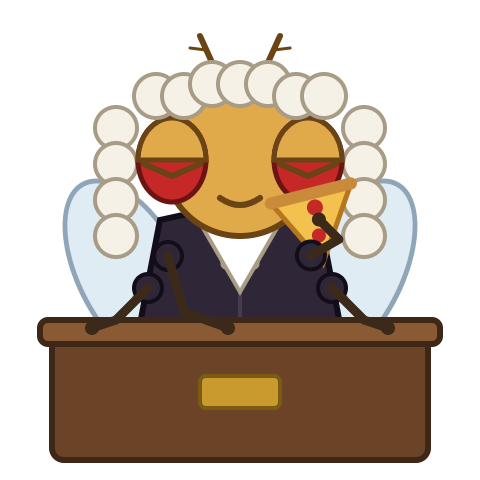
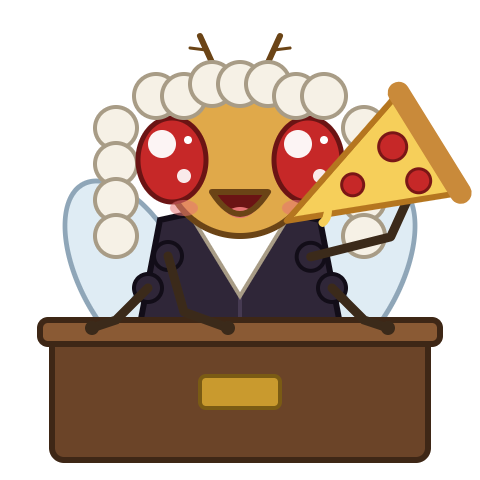
Review fixes: /how sections rendered as "[object ...]" (el() now flattens nested children), error preview card says the judge fainted, eating pose with a big pizza slice and happy eyes, story rail is a bar only
- dom.js: children.flat(Infinity); the /how test now checks each section's title and text
  are visible, and Page.fits() (used by the page tests) and the screenshot script fail on
  any "[object " in the page.
- The failed-hearing text moved to verdicts.FAILED (one copy for the API and the preview).
- Rail: labels dropped (the stage title already names each stage); T.rail removed.

diff --git a/web/css/components.css b/web/css/components.css
@@ -20,17 +20,15 @@
 .waiting .argument { margin-top: 14px; }
 .countdown { display: flex; align-items: center; justify-content: center; gap: 6px; margin: 0; color: var(--muted); }
 
-/* The story's progress rail: queued, the judge enters, tasting A, tasting B, deliberating. */
+/* The story's progress rail, a bar only (the stage title names each stage): queued, the
+   judge enters, tasting A, tasting B, deliberating. */
 .rail { display: flex; gap: 6px; margin: 16px 0 4px; padding: 0; list-style: none; }
-.rail li { flex: 1; min-width: 0; font-size: var(--fs-xs); color: var(--muted); }
-.rail li::before {
-  content: ""; display: block; height: 5px; margin-bottom: 4px; background: var(--line); border-radius: 999px;
+.rail li {
+  flex: 1; height: 6px; background: var(--line); border-radius: 999px;
   transition: background-color var(--t) var(--ease);
 }
-.rail li span { display: block; overflow: hidden; white-space: nowrap; text-overflow: ellipsis; }
-.rail li.done::before { background: var(--accent); }
-.rail li.now { font-weight: 700; color: var(--ink); }
-.rail li.now::before { background: var(--accent); animation: glow 1.2s ease-in-out infinite; }
+.rail li.done { background: var(--accent); }
+.rail li.now { background: var(--accent); animation: glow 1.2s ease-in-out infinite; }
 @keyframes glow { 50% { opacity: 0.35; } }
 
 .verdict .topic { margin: 4px 0 0; text-align: center; font-weight: 500; color: var(--muted); }

diff --git a/web/js/waiting.js b/web/js/waiting.js
@@ -20,9 +20,8 @@ export function storyScreen(root, view, n, onDone, loadBrain) {
   const line = el("p", { class: "stage-line" });
   const meters = el("div", { class: "live-meters" });
   const judge = flyImg("seated");
-  const rail = el("ol", { class: "rail", "aria-hidden": "true" },
-    T.rail(v.name_a, v.no_show ? T.water : v.name_b).map((t) => el("li", {}, el("span", {}, t))));
   const RAIL = ["queued", "mood", "tasteA", "tasteB", "deliberate", "reveal"];
+  const rail = el("ol", { class: "rail", "aria-hidden": "true" }, RAIL.slice(0, -1).map(() => el("li")));
   const mark = (key) => [...rail.children].forEach((li, i) => {
     const at = RAIL.indexOf(key);
     li.className = i < at ? "done" : i === at ? "now" : "";

diff --git a/web/js/dom.js b/web/js/dom.js
@@ -8,7 +8,7 @@ function make(node, props, children) {
     else if (v === true) node.setAttribute(k, "");
     else if (v !== false && v !== null && v !== undefined) node.setAttribute(k, v);
   }
-  for (const c of children.flat()) {
+  for (const c of children.flat(Infinity)) {
     if (c !== null && c !== undefined && c !== false) {
       node.append(typeof c === "string" || typeof c === "number" ? String(c) : c);
     }

diff --git a/web/js/copy.js b/web/js/copy.js
@@ -68,7 +68,6 @@ export const T = {
   how: "איך זה עובד?",
   nightMode: "מצב לילה",
   loading: "פותחים את התיק…",
-  rail: (a, b) => ["בתור", "כניסה", a, b, "הכרעה"],
   appealFiled: "הערעור הוגש. השופט חוזר לאולם",
   openingWhatsApp: "פותחים את וואטסאפ…",
   reconnected: "החיבור חזר",

diff --git a/scripts/make_fly.py b/scripts/make_fly.py
@@ -45,6 +45,10 @@ def eye(cx, kind):
     if kind == "closed":
         return base + (f'<path d="M{cx - 17} 80 A17 21 0 0 1 {cx + 17} 80 Z" fill="{AMBER}" stroke="{AMBER_D}" '
                        f'stroke-width="2.5"/>' + line([(cx - 14, 82), (cx, 88), (cx + 14, 82)], AMBER_D, 3))
+    if kind == "happy":  # wide and sparkling: a big shine and a second glint
+        return base + (f'<circle cx="{cx - 5}" cy="72" r="7" fill="#fff" fill-opacity=".95"/>'
+                       f'<circle cx="{cx + 6}" cy="88" r="3.5" fill="#fff" fill-opacity=".9"/>'
+                       f'<circle cx="{cx + 8}" cy="70" r="2" fill="#fff"/>')
     if kind == "x":
         return base + line([(cx - 8, 72), (cx + 8, 88)], "#fff", 3.5) + line([(cx + 8, 72), (cx - 8, 88)], "#fff", 3.5)
     shine = f'<circle cx="{cx - 6}" cy="71" r="4.5" fill="#fff" fill-opacity=".85"/>'
@@ -55,7 +59,7 @@ def eye(cx, kind):
 
 MOUTHS = {"smile": "M110 99 Q120 106 130 99", "flat": "M111 101 L129 101",
           "o": "M116 101 a4 4 0 1 0 8 0 a4 4 0 1 0 -8 0", "wavy": "M108 101 l4 -3 l4 3 l4 -3 l4 3 l4 -3 l4 3",
-          "frown": "M110 104 Q120 97 130 104"}
+          "frown": "M110 104 Q120 97 130 104", "open": "M106 96 Q120 118 134 96 Z"}
 
 
 def head(eyes="open", mouth="smile", extra=""):
@@ -140,15 +144,22 @@ def frozen():
 
 
 def eating():
-    napkin = '<path d="M98 108 L142 108 L120 146 Z" fill="#fff" stroke="#a89c86" stroke-width="2"/>'
-    pizza = ('<path d="M136 102 L176 92 L162 132 Z" fill="#f2c14e" stroke="#b5761f" stroke-width="2.5"/>'
-             '<path d="M136 102 L176 92" stroke="#c98a3a" stroke-width="6" stroke-linecap="round"/>'
-             '<circle cx="158" cy="104" r="4" fill="#c62828"/><circle cx="160" cy="118" r="3.5" fill="#c62828"/>')
-    return (wings() + robe() + napkin + head("closed", "smile") + bench() + "".join(REST)
+    """Lunch break: a big slice held up to an open grin, happy eyes. Reads apart from
+    deliberating (flat mouth, rubbing legs) even at header size."""
+    grin = (f'<path d="{MOUTHS["open"]}" fill="#6b1414"/>'
+            '<path d="M113 106 Q120 101 127 106 Q120 112 113 106 Z" fill="#e57373"/>')
+    blush = "".join(f'<ellipse cx="{x}" cy="104" rx="7" ry="4" fill="#e57373" fill-opacity=".55"/>' for x in (92, 148))
+    pizza = ('<path d="M144 110 L200 46 L231 96 Z" fill="#f6cf5a" stroke="#b5761f" stroke-width="3" stroke-linejoin="round"/>'
+             '<path d="M200 46 L231 96" stroke="#c98a3a" stroke-width="11" stroke-linecap="round"/>'
+             + "".join(f'<circle cx="{x}" cy="{y}" r="{r}" fill="#c62828" stroke="#7a1616" stroke-width="1.5"/>'
+                       for x, y, r in ((197, 73, 7), (210, 90, 6), (177, 92, 5.5)))
+             + '<path d="M164 99 q2 9 -2 12" stroke="#f6cf5a" stroke-width="4" stroke-linecap="round" fill="none"/>')
+    napkin = '<path d="M98 112 L142 112 L120 148 Z" fill="#fff" stroke="#a89c86" stroke-width="2"/>'
+    return (wings() + robe() + napkin + head("happy", "open", blush + grin) + bench() + "".join(REST)
             + leg([(84, 128), (92, 156), (114, 164)])
-            + f'<g id="z">{pizza}{leg([(156, 128), (170, 120), (160, 110)])}</g>'), \
+            + f'<g id="z">{leg([(156, 128), (196, 118), (206, 96)])}{pizza}</g>'), \
         "#z{animation:chew 1.2s ease-in-out infinite}@keyframes chew{0%,100%{transform:translate(0,0)}" \
-        "50%{transform:translate(-4px,-2px)}}", ""
+        "50%{transform:translate(-5px,3px)}}", ""
 
 
 def fainted():

diff --git a/api/tests/test_case_api.py b/api/tests/test_case_api.py
@@ -6,7 +6,7 @@ import pytest
 from fastapi.testclient import TestClient
 
 from apikit import as_b, decided, device, open_case, settled
-from borer_api import court, views
+from borer_api import court, verdicts, views
 from borer_api.app import create_app
 from borer_sim import mood
 from fake import OK, TEXT_B, FakeSim, wait_for
@@ -159,10 +159,10 @@ def test_failed_run_retried_twice_from_the_same_seed(tmp_path, fails, status):
         a = wait_for(c, f"/api/a/{case['a']}", lambda v: v["status"] == status)
         assert len(sim.calls) == court.ATTEMPTS and len(set(sim.calls)) == 1
         if status == "error":
-            assert a["hearings"][0]["status"] == "failed" and a["error_message"] == views.FAILED
+            assert a["hearings"][0]["status"] == "failed" and a["error_message"] == verdicts.FAILED
             assert not a["can_appeal"] and not a["no_show"]
             pub = c.get(f"/api/c/{case['case_id']}").json()
-            assert (pub["status"], pub["error_message"]) == ("error", views.FAILED)
+            assert (pub["status"], pub["error_message"]) == ("error", verdicts.FAILED)
         else:
             assert a["error_message"] is None
 

diff --git a/api/src/borer_api/og.py b/api/src/borer_api/og.py
@@ -37,13 +37,14 @@ def teaser(case: dict) -> dict:
 
 def card(case: dict, hearings: list[dict]) -> dict:
     final = verdicts.final(case, hearings)
-    head = verdicts.headline(case, final) if final else NOT_DECIDED
+    failed = case["status"] == "error"
+    head = verdicts.FAILED if failed else verdicts.headline(case, final) if final else NOT_DECIDED
     topic = f"התיק: {case['topic']}" if case["topic"] else None
     names = f"{case['name_a']} נגד {case['name_b']}"
     history = verdicts.history_line(hearings) if final else None
     lines = [("topic", topic), ("names", names), ("headline", head),
              ("history", history and history.replace("←", "·"))]  # Heebo has no arrows
-    pose = "fainted" if case["status"] == "error" else POSE[final["outcome"]] if final else "seated"
+    pose = "fainted" if failed else POSE[final["outcome"]] if final else "seated"
     return {"title": head, "text": " · ".join(t for t in (topic, names, history) if t), "pose": pose,
             "image": f"/og/c/{case['id']}.png?v={len(hearings)}{case['status']}",
             "lines": [(role, text) for role, text in lines if text]}

diff --git a/api/src/borer_api/views.py b/api/src/borer_api/views.py
@@ -15,7 +15,6 @@ NOT_DECIDED = "הזבוב עוד לא פסק בתיק הזה"
 APPEALED = "כבר ערערת בתיק הזה"
 FINAL = "הפסק סופי. אין עוד ערעורים בתיק הזה"
 APPEAL_LATE = "עברו 3 שעות מפסק הדין. הפסק סופי"
-FAILED = "השופט התעלף באמצע הדיון. אפשר לפתוח תיק חדש"
 
 NUDGE_AFTER_S = 3600          # A's "nudge again" button (SPEC §3.2)
 APPEAL_WINDOW_S = 3 * 3600    # appeals within 3 h of the latest verdict (§15.4)
@@ -71,7 +70,7 @@ def hearing_list(case: dict, hearings: list[dict], public: bool = False) -> list
 def _common(case: dict, hearings: list[dict], public: bool) -> dict:
     return {k: case[k] for k in ("id", "status", "topic", "name_a", "name_b")} | {
         "no_show": case["status"] not in ("waiting", "error") and case["text_b"] is None,
-        "error_message": FAILED if case["status"] == "error" else None,
+        "error_message": verdicts.FAILED if case["status"] == "error" else None,
         "hearings": hearing_list(case, hearings, public),
         "history": verdicts.history_line(hearings)}
 

diff --git a/api/tests/test_og.py b/api/tests/test_og.py
@@ -128,3 +128,11 @@ def test_every_pose_has_its_png_and_shows_in_the_image():
     a, b = ogimage.render(CARD, "gavel"), ogimage.render(CARD, "shrug")
     assert ImageChops.difference(a.crop(fly_box), b.crop(fly_box)).getbbox() is not None
     assert ImageChops.difference(a.crop(text_box), b.crop(text_box)).getbbox() is None
+
+
+def test_error_card_says_the_judge_fainted():
+    from borer_api import og
+    case = {"id": "x1", "status": "error", "topic": None, "name_a": "דנה", "name_b": "יוסי", "text_b": "t"}
+    meta = og.card(case, [{"status": "failed"}])
+    assert (meta["title"], meta["pose"]) == (verdicts.FAILED, "fainted")
+    assert ("headline", verdicts.FAILED) in meta["lines"]

diff --git a/api/tests/test_e2e_cases.py b/api/tests/test_e2e_cases.py
@@ -116,6 +116,10 @@ def test_how_it_works_page(rig):
     assert p.js("document.querySelectorAll('.credits li').length") == 7
     assert p.js("document.querySelectorAll('.credits a[href^=\"https://doi.org/\"]').length") == 7
     assert "CC BY-NC" in p.text() and p.fits()
+    sections = p.js("import('/js/how.js').then((m) => m.HOW.sections)")
+    shown = p.js("""[...document.querySelectorAll('.how h3')].filter((h) => h.offsetHeight)
+      .map((h) => [h.textContent, h.nextElementSibling.offsetHeight ? h.nextElementSibling.textContent : ''])""")
+    assert len(sections) == 5 and all(s in shown for s in sections), shown
 
 
 def test_no_show_b_link_shows_only_the_public_card(rig):

diff --git a/scripts/ui_screens.py b/scripts/ui_screens.py
@@ -38,6 +38,7 @@ def shot(p: Page, name: str, theme: str) -> None:
     p.js("document.fonts.ready.then(() => true)")
     p.js("window.scrollTo({top: 0, behavior: 'instant'})")  # the sticky header stays on top
     time.sleep(0.5)
+    assert "[object " not in p.text(), (name, p.text()[:300])
     h = p.js("Math.max(document.documentElement.scrollHeight, window.innerHeight)")
     r = p.b.send("Page.captureScreenshot", p.s, format="png", captureBeyondViewport=True,
                  clip={"x": 0, "y": 0, "width": 360, "height": h, "scale": 1})

diff --git a/api/tests/cdp.py b/api/tests/cdp.py
@@ -119,7 +119,8 @@ class Page:
                        f" return e && !e.hidden ? e.getAttribute({json.dumps(name)}) : null; }})()")
 
     def fits(self) -> bool:
-        """No horizontal overflow at this width."""
+        """No horizontal overflow at this width (and no node printed as "[object ...]")."""
+        assert "[object " not in self.text(), self.text()[:300]
         return self.js("document.documentElement.scrollWidth <= window.innerWidth")
 
     def path(self) -> str:
